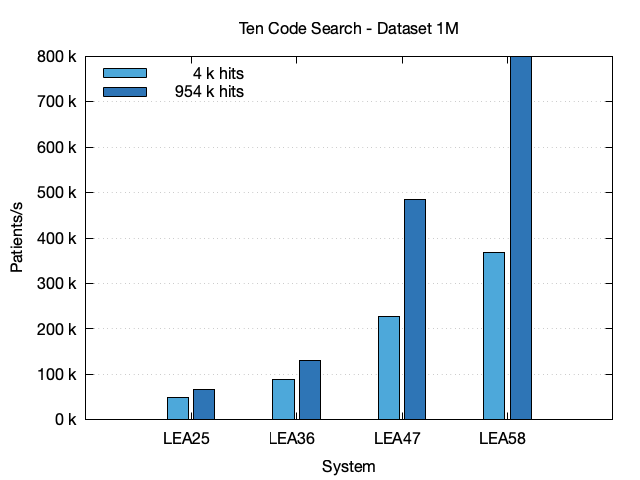
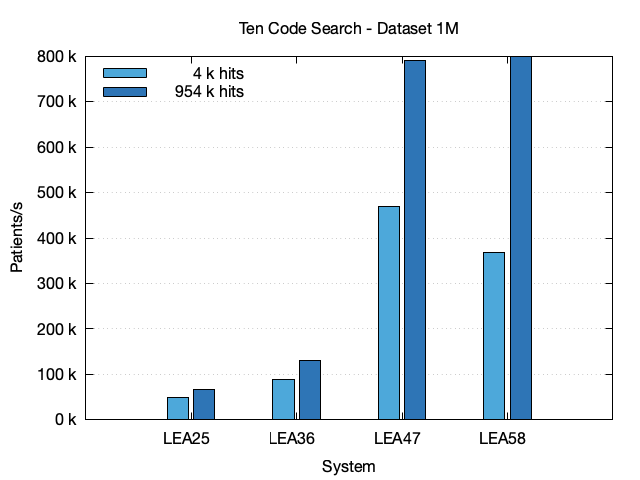
Improve Resource Handle Processing Performance

Changed region(s): [[0.5938, 0.125, 0.6875, 0.6875]]

diff --git a/docs/performance/cql.md b/docs/performance/cql.md
@@ -117,9 +117,9 @@ The same can be said for the LEA58 system.
 | 1M      | LEA36  | 17861-6 |   25 k |     4.38 |  0.026 | 228.3 k | 
 | 1M      | LEA36  | 8310-5  |  603 k |     6.30 |  0.038 | 158.8 k | 
 | 1M      | LEA36  | 72514-3 |  998 k |     7.30 |  0.025 | 137.1 k |
-| 1M      | LEA47  | 17861-6 |   25 k |     0.66 |  0.004 | 1.512 M | 
-| 1M      | LEA47  | 8310-5  |  603 k |     0.77 |  0.003 | 1.301 M | 
-| 1M      | LEA47  | 72514-3 |  998 k |     0.95 |  0.004 | 1.056 M |
+| 1M      | LEA47  | 17861-6 |   25 k |     0.59 |  0.006 | 1.692 M | 
+| 1M      | LEA47  | 8310-5  |  603 k |     0.69 |  0.011 | 1.452 M | 
+| 1M      | LEA47  | 72514-3 |  998 k |     0.85 |  0.006 | 1.173 M |
 | 1M      | LEA58  | 17861-6 |   25 k |     0.49 |  0.004 | 2.026 M |
 | 1M      | LEA58  | 8310-5  |  603 k |     0.54 |  0.009 | 1.842 M | 
 | 1M      | LEA58  | 72514-3 |  998 k |     0.63 |  0.007 | 1.579 M |
@@ -322,8 +322,8 @@ The same can be said for the LEA58 system.
 | 1M      | LEA25  |  954 k |    15.15 |  0.039 |  66.0 k |
 | 1M      | LEA36  |    4 k |    11.18 |  0.033 |  89.5 k |
 | 1M      | LEA36  |  954 k |     7.60 |  0.025 | 131.6 k |
-| 1M      | LEA47  |    4 k |     3.57 |  0.003 | 280.5 k |
-| 1M      | LEA47  |  954 k |     1.73 |  0.003 | 577.6 k |
+| 1M      | LEA47  |    4 k |     2.13 |  0.006 | 470.4 k |
+| 1M      | LEA47  |  954 k |     1.26 |  0.004 | 791.0 k |
 | 1M      | LEA58  |    4 k |     2.71 |  0.009 | 368.4 k |
 | 1M      | LEA58  |  954 k |     1.25 |  0.003 | 798.9 k |
 

diff --git a/docs/performance/cql/other.md b/docs/performance/cql/other.md
@@ -9,7 +9,7 @@
 | 100k    | LEA47  |   15 k |     2.03 |  0.023 |  49.2 k |
 | 100k    | LEA58  |   15 k |     1.37 |  0.013 |  72.8 k |
 | 100k-fh | LEA58  |   16 k |     6.84 |  0.018 |  14.6 k |
-| 1M      | LEA47  |  155 k |     9.35 |  0.047 | 106.9 k |
+| 1M      | LEA47  |  155 k |     8.56 |  0.014 | 116.8 k |
 | 1M      | LEA58  |  155 k |    13.01 |  0.053 |  76.8 k |
 
 ### CQL Query
